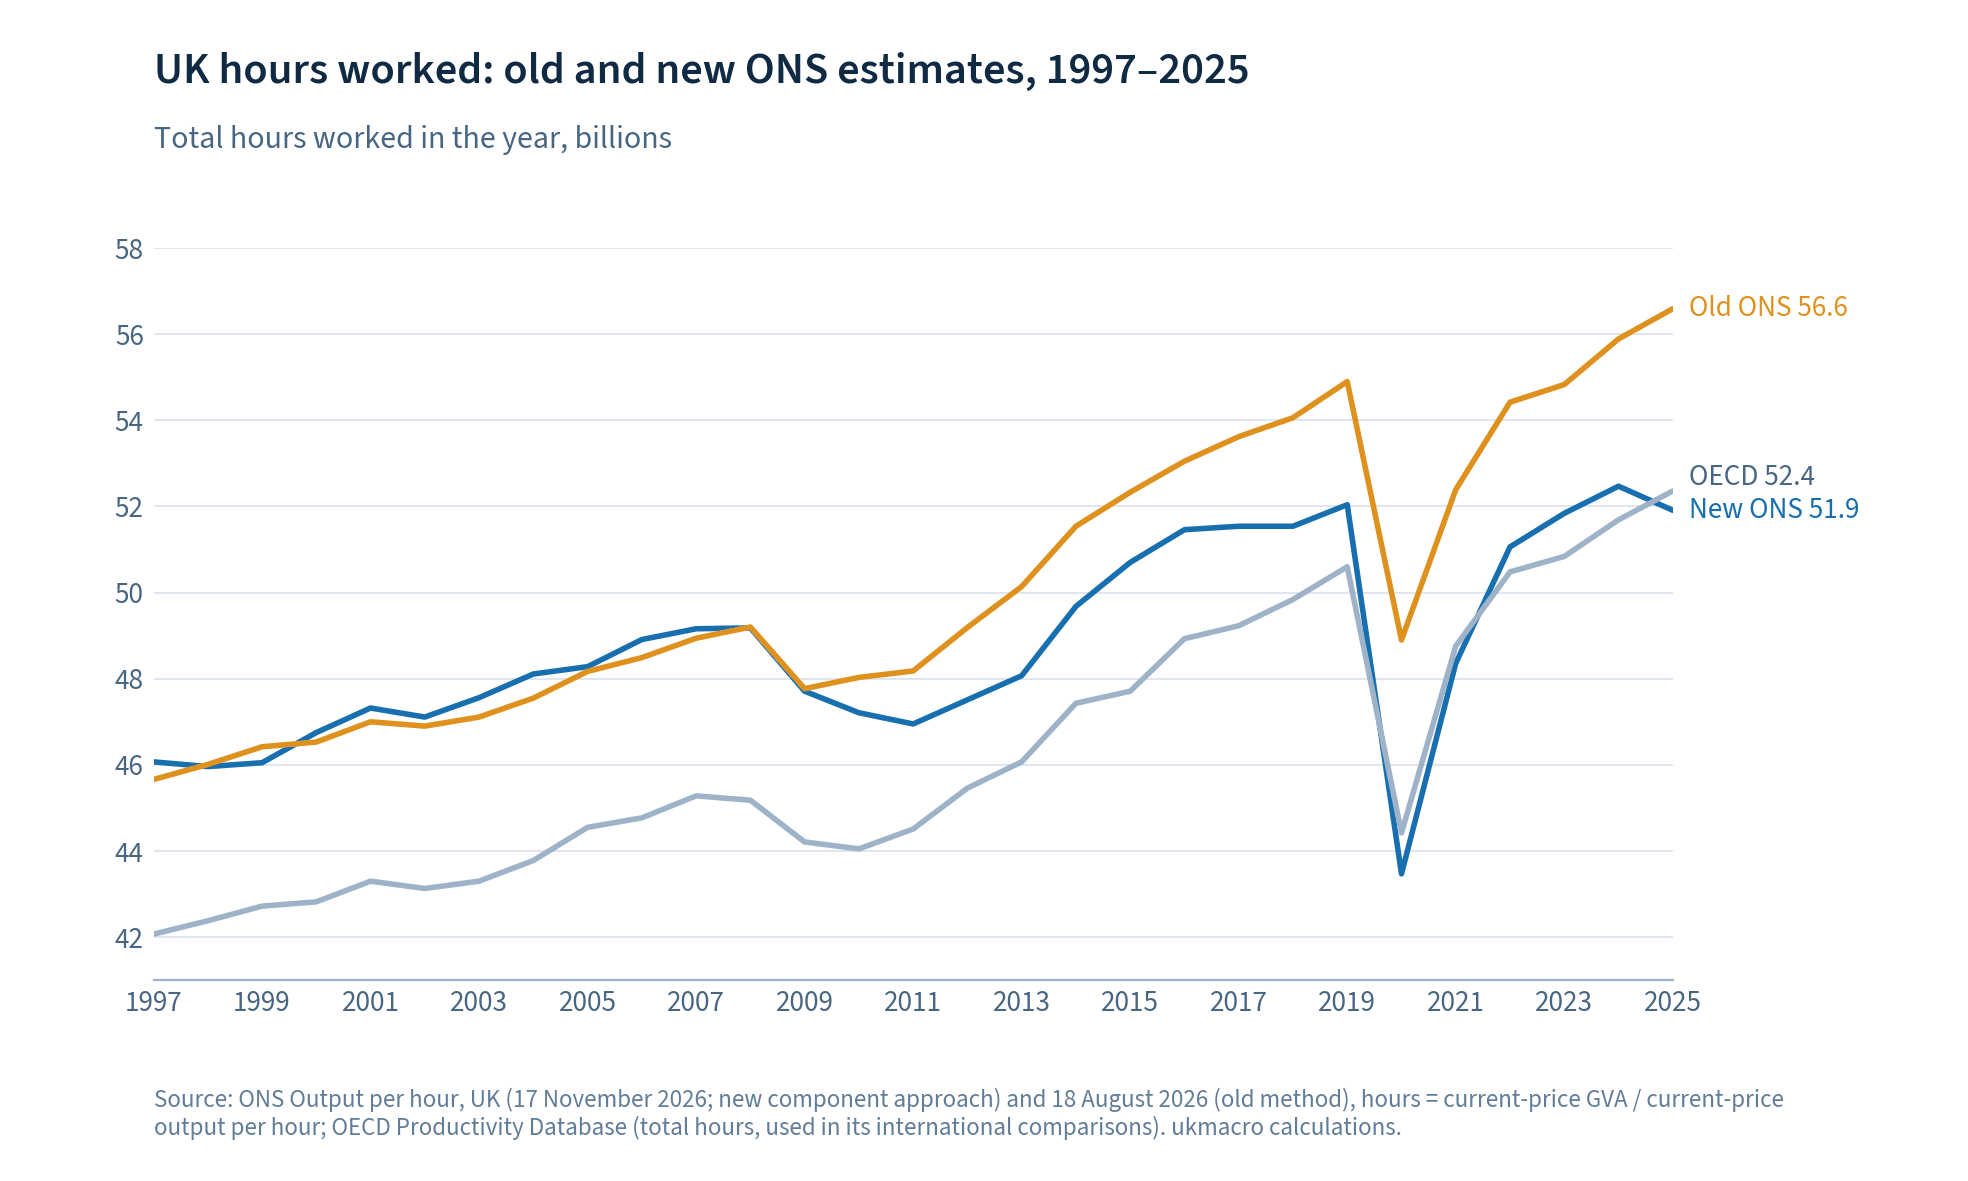
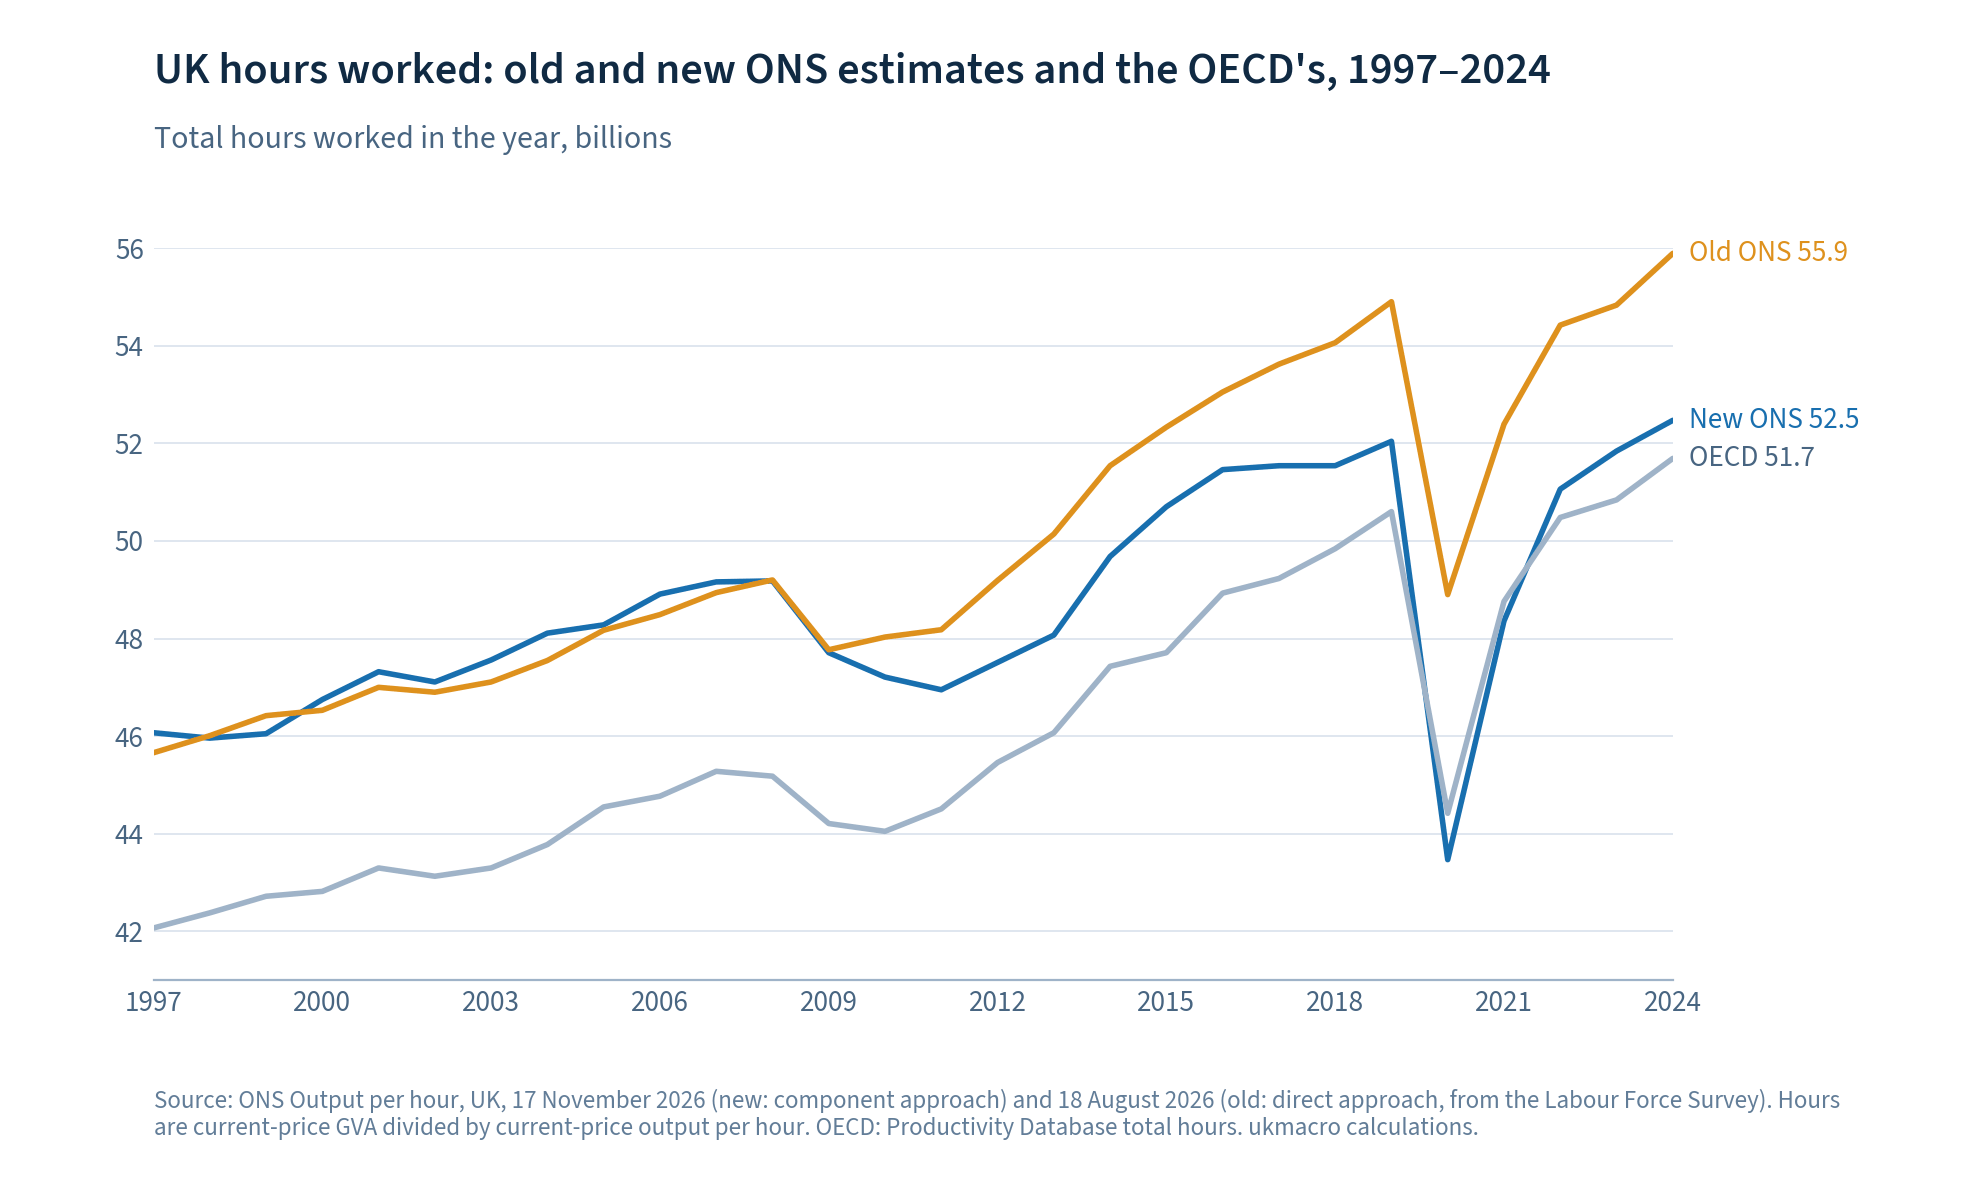
UK hours chart: stop at 2024, name all three estimates in the title
Hours now come straight from the ONS's own output per hour (current-price GVA /
current-price output per hour) rather than weekly hours x 52.

diff --git a/builders/productivity/international_levels.py b/builders/productivity/international_levels.py
@@ -3,8 +3,8 @@
 
   international-productivity-levels          GDP per hour worked as % of the US level
   international-productivity-levels-germany  the same, as % of the German level
-  uk-hours-old-vs-new                        UK total hours worked: the ONS's new estimate,
-                                             its old one, and the OECD's
+  uk-hours-old-vs-new                        UK total hours worked to 2024: the ONS's new
+                                             estimate, its old one, and the OECD's
 
 GDP per hour worked is measured in each year at that year's prices and purchasing power
 parities (PPPs).
@@ -78,6 +78,7 @@ COLOUR = {"UK": hs.COLOURS["series"][0], "Germany": hs.COLOURS["series"][1],
           "France": hs.COLOURS["series"][2], "Italy": hs.COLOURS["series"][3],
           "US": hs.COLOURS["ink"]}
 START = 1987   # first year of US hours in the OECD database
+HOURS_LAST = 2024   # the hours chart stops here
 
 OUT, IMG = REPO / "data" / "productivity", REPO / "img" / "productivity"
 
@@ -238,27 +239,30 @@ def _end_labels(fig, ax, ends: list[list], x) -> None:
 
 
 def hours_chart(rows: list[dict], published: str) -> None:
-    """UK total hours worked a year: new ONS, old ONS and OECD estimates."""
+    """UK total hours worked a year, to HOURS_LAST: the ONS's old and new estimates, and the
+    OECD's (the one behind its international comparisons)."""
+    rows = [r for r in rows if r["year"] <= HOURS_LAST]
     years = [r["year"] for r in rows]
-    fig, ax = hs.figure(f"UK hours worked: old and new ONS estimates, {years[0]}–{years[-1]}",
+    fig, ax = hs.figure(f"UK hours worked: old and new ONS estimates and the OECD's, {years[0]}–{years[-1]}",
                         "Total hours worked in the year, billions",
-                        source=(f"Source: ONS Output per hour, UK ({published}; new component approach) and "
-                                "18 August 2026 (old method), hours = current-price GVA / current-price output "
-                                "per hour; OECD Productivity Database (total hours, used in its international "
-                                "comparisons). ukmacro calculations."))
+                        source=(f"Source: ONS Output per hour, UK, {published} (new: component approach) and "
+                                "18 August 2026 (old: direct approach, from the Labour Force Survey). "
+                                "Hours are current-price GVA divided by current-price output per hour. OECD: Productivity Database "
+                                "total hours. ukmacro calculations."))
     pos = ax.get_position()
     ax.set_position([pos.x0, pos.y0, pos.width - hs._x(2.4), pos.height])
     series = [("ons_new_bn", "New ONS", COLOUR["UK"]), ("ons_old_bn", "Old ONS", hs.COLOURS["series"][1]),
               ("oecd_bn", "OECD", hs.COLOURS["grey"])]
     ends = []
     for key, name, colour in series:
-        ax.plot(years, [math.nan if r[key] is None else r[key] for r in rows], color=colour, linewidth=2)
+        ax.plot(years, [r[key] for r in rows], color=colour, linewidth=2)
         v = rows[-1][key]
+        # grey context line: label in the secondary text colour so it stays legible
         ends.append([v, f"{name} {v:.1f}", hs.COLOURS["text_2"] if colour == hs.COLOURS["grey"] else colour, None])
-    values = [r[k] for r in rows for k, _, _ in series if r[k] is not None]
+    values = [r[k] for r in rows for k, _, _ in series]
     ax.set_ylim(2 * (min(values) // 2) - 1, 2 * (max(values) // 2 + 1))   # room below the lowest line
     ax.set_xlim(years[0], years[-1])
-    ax.set_xticks([y for y in years if y % 2 == 1])   # every other year
+    ax.set_xticks([y for y in years if (years[-1] - y) % 3 == 0])   # every third year, ending on the last
     _end_labels(fig, ax, ends, years[-1])
     hs.save_png(fig, IMG / "uk-hours-old-vs-new.png")
 
